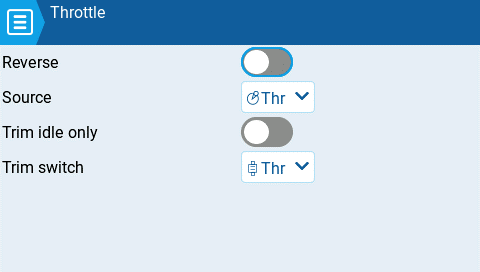
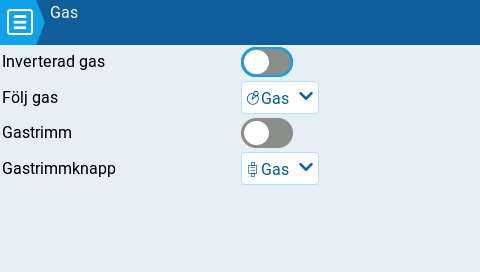
GITBOOK-19: No subject

diff --git a/edgetx-user-manual/user-manual-for-color-screen-radios/user-interface.md b/edgetx-user-manual/user-manual-for-color-screen-radios/user-interface.md
@@ -31,7 +31,7 @@ Vissa sändare har en pekskärm. På dessa sändare går det att interagera i me
 Det går att inaktivera pekskärmen genom att konfigurera en specialfunktion. Se [special-functions.md](model-settings/special-functions.md "mention") för mer information.&#x20;
 {% endhint %}
 
-Peka på EdgeTX-ikonen i det över vänstra hörnet av skärmen för att öppna huvudmenyn. Peka på önskad meny för att välja den.
+Peka på EdgeTX-ikonen i det övre vänstra hörnet av skärmen för att öppna huvudmenyn. Peka på önskad meny för att välja den.
 
 <figure><img src="../../.gitbook/assets/mainmenu.png" alt=""><figcaption><p>Huvudmeny</p></figcaption></figure>
 

diff --git a/edgetx-user-manual/user-manual-for-color-screen-radios/model-settings/model-setup/throttle.md b/edgetx-user-manual/user-manual-for-color-screen-radios/model-settings/model-setup/throttle.md
@@ -1,6 +1,6 @@
 # Gas
 
-<figure><img src="../../../../.gitbook/assets/throttle.png" alt=""><figcaption><p>Throttle page settings</p></figcaption></figure>
+<figure><img src="../../../../.gitbook/assets/throttle (1).png" alt=""><figcaption><p>Throttle page settings</p></figcaption></figure>
 
 EdgeTX has to possibility to select a specific source and trim for the model throttle and allows for the following configuration options:
 
